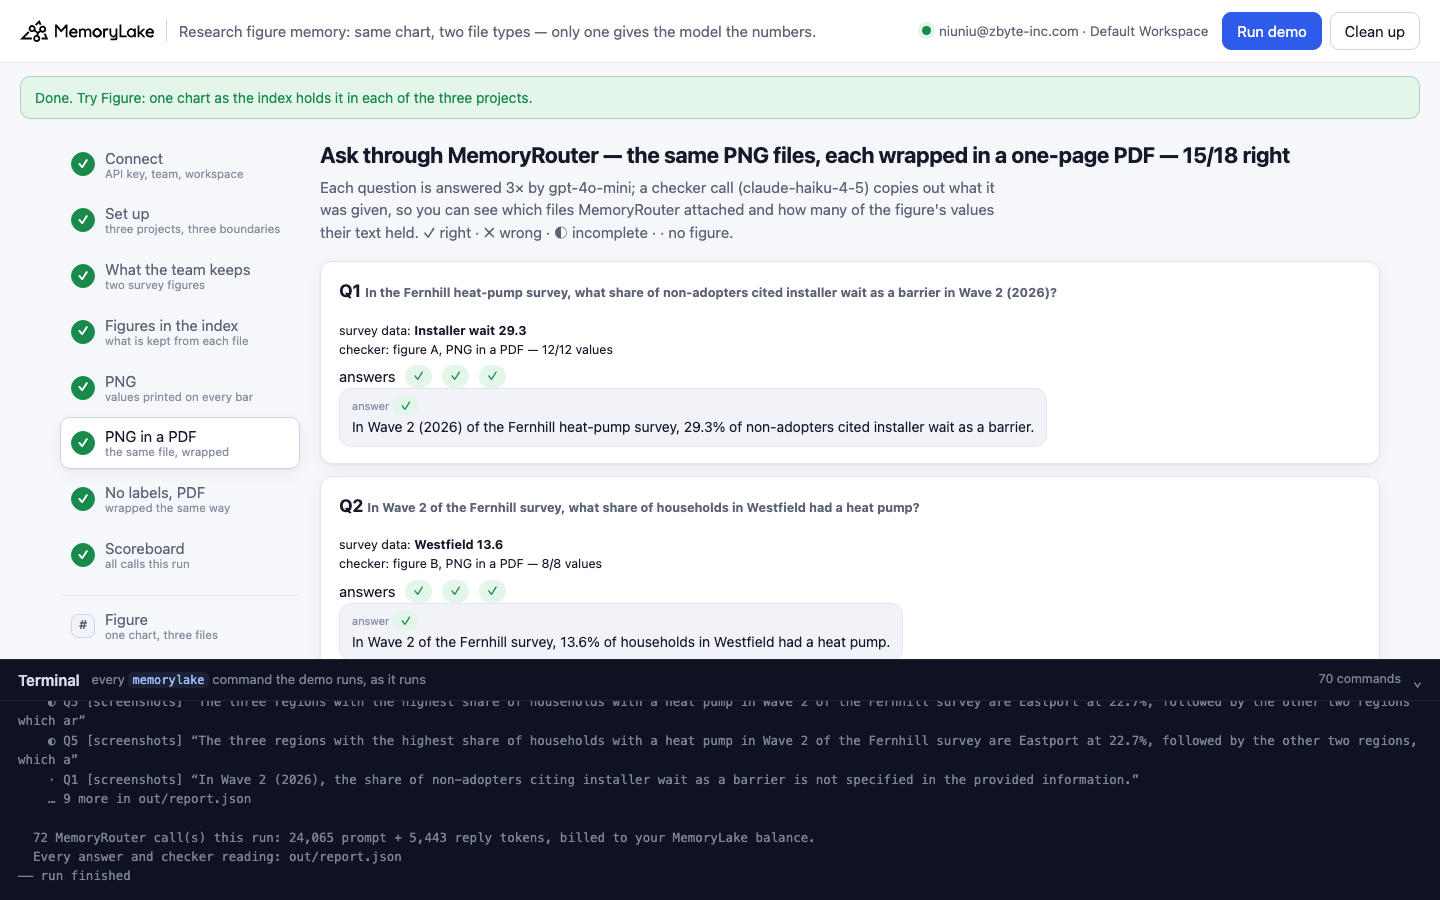
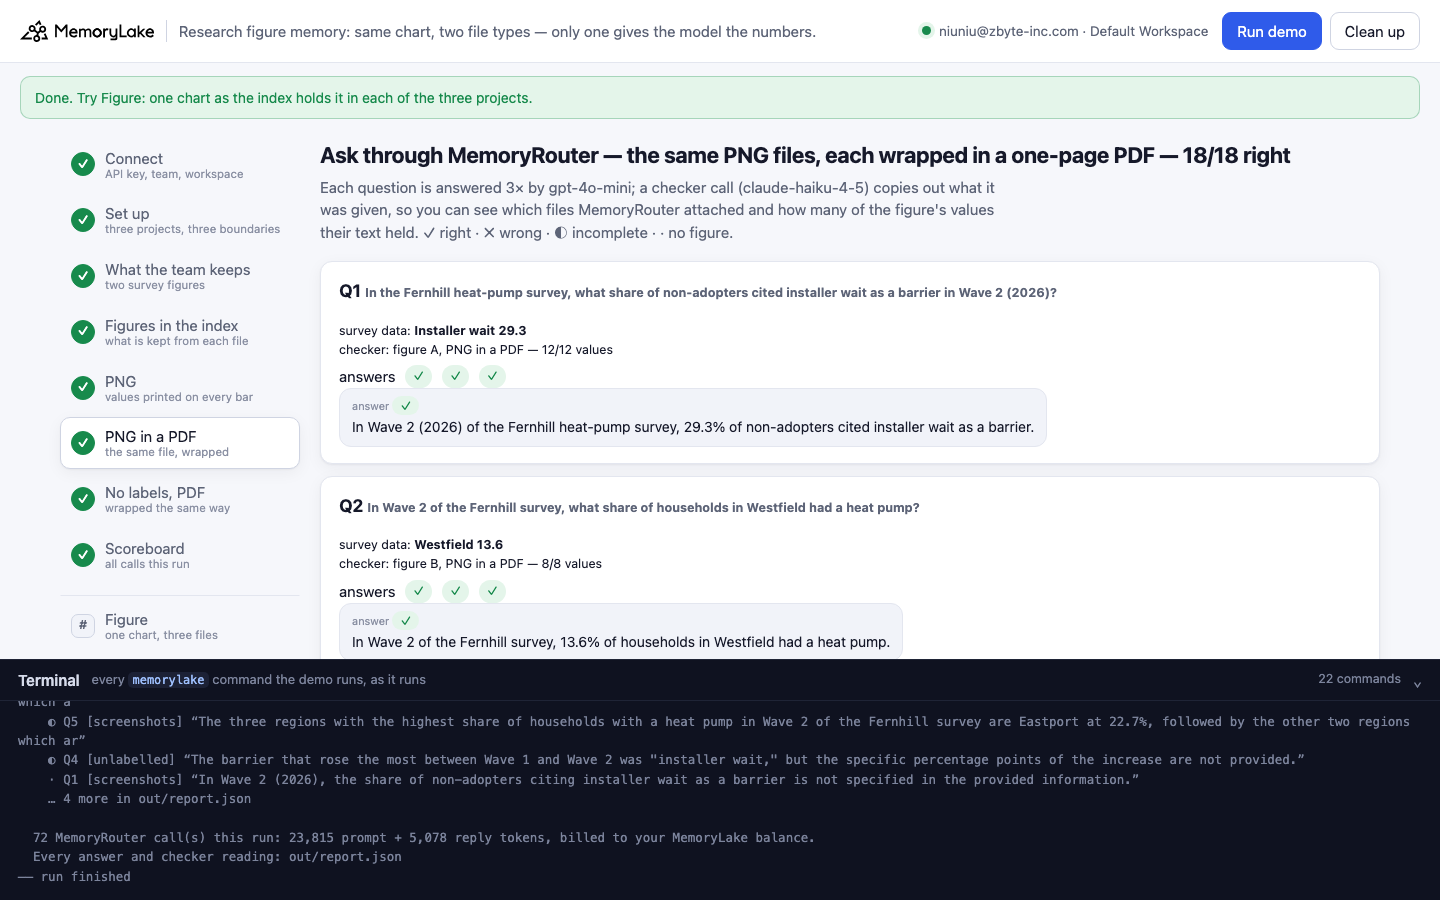
research-figure-memory: video links (CLI 6:26 · Web 6:35), totals over all 10 runs, bar-height estimates in the unlabelled control, screenshots from the recording run

Changed region(s): [[0.0, 0.7778, 0.9688, 0.8711], [0.8125, 0.1556, 0.9062, 0.1867], [0.0625, 0.9644, 0.0938, 0.9956]]

diff --git a/research-figure-memory/README.md b/research-figure-memory/README.md
@@ -4,7 +4,8 @@ A runnable version of the MemoryLake use case
 [*Research Teams Need Shared Memory, Not Just Shared Documents*](https://www.memorylake.ai/en/usecase/ai-memory-for-research-teams),
 built entirely on the [`memorylake` CLI](https://github.com/memorylake-ai/memorylake-cli) (v20261015 or later).
 
-**Watch it run:** recording in progress.
+**Watch it run:** [CLI, 6:26](https://github.com/memorylake-ai/memorylake-usecases/releases/download/research-figure-memory-v1/research-figure-memory-cli-demo.mp4) · [Web, 6:35](https://github.com/memorylake-ai/memorylake-usecases/releases/download/research-figure-memory-v1/research-figure-memory-web-demo.mp4)
+([release](https://github.com/memorylake-ai/memorylake-usecases/releases/tag/research-figure-memory-v1); GitHub serves them as downloads).
 
 **The problem.** A research team keeps its results as bar charts with the value printed on every bar, and saves
 them into shared memory so that everyone's assistant can answer from them. MemoryLake indexes a picture by looking
@@ -51,25 +52,30 @@ top three, a gap between two regions — go through MemoryRouter (`router chat -
 temperature 0), each asked 3 times per boundary, and every answer is graded against the survey data. Every value
 in the data is different, so a number in an answer names exactly one bar.
 
-Totals over **6 runs** (18 answers per boundary per run):
+Totals over **10 runs** (18 answers per boundary per run):
 
 | Boundary | Printed values in the index text | Right | Wrong | Incomplete | No figure | The asked figures were in what MemoryRouter attached |
 |---|---|---|---|---|---|---|
-| **PNG screenshots** | 4–6 of 20 (summary only) | **18 / 108** | 0 | 36 | 54 | 0 of 36 checker calls |
-| **The same PNGs, wrapped in a PDF** | **20 of 20** | **104 / 108** | 4 | 0 | 0 | 36 of 36 |
-| **No printed values, wrapped in a PDF** | 0 of 20 | **0 / 108** | **38** | 12 | 58 | 0 of 36 |
+| **PNG screenshots** | 4–6 of 20 (summary only) | **27 / 180** | 3 | 60 | 90 | 0 of 60 checker calls |
+| **The same PNGs, wrapped in a PDF** | **20 of 20** | **175 / 180** | 4 | 1 | 0 | 60 of 60 |
+| **No printed values, wrapped in a PDF** | 0 of 20 | **0 / 180** | **68** | 15 | 97 | 0 of 60 |
 
-The figure item's own text — what the index reads off the chart — was **empty for every PNG** (12 of 12 imports)
-and held **every printed value for every wrapped PDF** (12 of 12). The PNG's few values come from the summary: its
+The figure item's own text — what the index reads off the chart — was **empty for every PNG** (20 of 20 imports)
+and held **every printed value for every wrapped PDF** (20 of 20). The PNG's few values come from the summary: its
 writer mentions the extremes (Eastport highest, Highmoor lowest; upfront cost 62.4 → 55.1). That is why the PNG
 boundary answers the top-three question with *"Eastport at 22.7%, followed by the other two regions, which are not
-specified"*, and why its 18 right answers are all one question (which barriers were above 20% — the summary
-happened to name the three that rose or led; none of their Wave 2 values except upfront cost reached the model).
+specified"*. Its 27 right answers are all one question — which barriers were above 20% — and they are luck: the
+model lists the barriers the summary says *increased*. When a summary named grid upgrade (14.7%) instead of
+landlord consent, the same question went wrong three times out of three.
 
-The unlabelled control shows what the PDF reads: the printed labels, not the bars. Its figure text is the category
+The unlabelled control shows what the PDF reads: the printed labels. Its figure text is usually the category
 names and the legend, and the assistant fills the gap — *"the three regions with the highest share are Eastport,
-Highmoor, and Southdown"* (Highmoor is the lowest of eight) 17 times of 18, *"upfront cost and uncertainty about
-functionality"* for the barriers above 20% (uncertainty is 15.8).
+Highmoor, and Southdown"* (Highmoor is the lowest of eight) 29 times of 30, *"upfront cost and uncertainty about
+functionality"* for the barriers above 20% (uncertainty is 15.8). In 2 of the 10 imports of the grouped chart the
+index went further and **estimated** the values from the bar heights, marked only by a tilde — `Unsure it works:
+Wave 1 (2025) - ~60` (the survey says 31.6), `Landlord consent … ~35` (26.5). Those estimates reached the model:
+*"approximately 30% of non-adopters cited installer wait"*. Step 4 counts them separately; none is a value printed
+on the chart.
 
 The four wrong answers with the PDF are worth seeing too: all 12 values were attached each time (the checker shows
 it), and gpt-4o-mini still named grid upgrade (+6.3) as the biggest rise instead of installer wait (+10.6) three
@@ -194,7 +200,11 @@ its `text`.
 ```
 
 The layout of the figure text varies between imports (`North Coast 18.4`, `North Coast: 18.4`, `Upfront cost (62.4,
-55.1)`), the values in it did not.
+55.1)`), the values in it did not. When the index estimates values for an unlabelled chart, step 4 adds a line:
+
+```
+    values estimated from the bar heights (written ~): 12, none of them printed on the chart; the furthest off: Unsure it works, Wave 1 (2025) ~60 (survey: 31.6)
+```
 
 ### Step 5: ask through MemoryRouter — the PNG screenshots
 
@@ -272,18 +282,22 @@ of the three projects (the step 4 view, for one figure). It makes searches only,
 
 ## Measured
 
-6 runs: 1 in this directory, 2 parallel copies with their own prefix, and 3 through the browser companion. 18
-answers per boundary per run; 36 checker calls per boundary, all readable.
+10 runs: 2 in this directory, 2 parallel copies with their own prefix, 4 through the browser companion, and the
+two recording runs (CLI and web; the CLI video was recorded twice — the first take was fine, but the step 4 view
+then gained the "estimated from the bar heights" line, and the video should match the code). 18 answers per
+boundary per run; 60 checker calls per boundary, all readable.
 
-- **Per question** (108 answers per boundary, 18 per question): **PNG** — Q3 18 ✓; Q4 18 ◐ (installer wait named,
-  no points); Q5 18 ◐ (Eastport only); Q1, Q2, Q6 18 · each. **PNG in a PDF** — Q1, Q2, Q5, Q6 18 ✓ each; Q3 17 ✓
-  1 ✗ (a 15.8% barrier listed above 20%); Q4 15 ✓ 3 ✗ (grid upgrade +6.3, all in one run). **No printed values,
-  PDF** — Q5 17 ✗ (Eastport, Highmoor, Southdown) 1 ·; Q3 15 ✗ 3 ·; Q4 12 ◐ 3 ✗ (*"10 percentage points (from ~20%
-  to ~30%)"* — read off nothing) 3 ·; Q1 15 · 3 ✗ (*"approximately 30%"*); Q2, Q6 18 · each.
-- **The index text** (step 4, 6 imports of every file): figure item `text` empty for all 12 PNG imports, every
-  printed value for all 12 wrapped-PDF imports, category names and legend only for the unlabelled PDFs. The PNG
+- **Per question** (180 answers per boundary, 30 per question): **PNG** — Q3 27 ✓ 3 ✗; Q4 30 ◐ (installer wait
+  named, no points); Q5 30 ◐ (Eastport only); Q1, Q2, Q6 30 · each. **PNG in a PDF** — Q1, Q2, Q5, Q6 30 ✓ each;
+  Q3 28 ✓ 1 ✗ (a 15.8% barrier listed above 20%) 1 ◐ (upfront cost left out); Q4 27 ✓ 3 ✗ (grid upgrade +6.3, all
+  in one run). **No printed values, PDF** — Q5 29 ✗ (Eastport, Highmoor, Southdown) 1 ·; Q3 27 ✗ 3 ·; Q4 15 ◐
+  6 ✗ (*"10 percentage points (from ~20% to ~30%)"*, from the estimated figure text) 9 ·; Q1 24 · 6 ✗
+  (*"approximately 30%"*, same two runs); Q2, Q6 30 · each.
+- **The index text** (step 4, 10 imports of every file): figure item `text` empty for all 20 PNG imports, every
+  printed value for all 20 wrapped-PDF imports; for the unlabelled PDFs, category names and legend only in 18 of
+  20, and bar-height estimates (`~60`, `~35`) in 2 — both times the grouped chart, never the region chart. The PNG
   summaries held 4 or 6 of the 20 values (the extremes).
-- **The checker** (`claude-haiku-4-5`, 108 calls, all readable): MemoryRouter attached the asked figure for every
+- **The checker** (`claude-haiku-4-5`, 180 calls, all readable): MemoryRouter attached the asked figure for every
   question in every boundary.
 - Each run: 72 MemoryRouter calls, 23,000–25,000 prompt + 5,000–5,900 reply tokens, 5–6 minutes (the six
   documents indexed in 68–102 s; three copies importing at once were the slow ones).
@@ -294,9 +308,10 @@ answers per boundary per run; 36 checker calls per boundary, all readable.
   are read into text, value by value; the same picture as a PNG is described, not read. Before you rely on a chart
   being "in memory", look at what `search --types document` holds for it.
 - **Wrapping is enough.** No redraw and no export of the data: `wrap_png_as_pdf()` puts the PNG's own bytes in a
-  one-page PDF. For screenshots you already have, that took this team from 18 to 104 of 108.
-- **Print the values on the chart.** The PDF reads the labels, not the bar heights; an unlabelled chart in a PDF
-  gives the category names and nothing else, and the assistant then makes up rankings.
+  one-page PDF. For screenshots you already have, that took this team from 27 to 175 of 180.
+- **Print the values on the chart.** The PDF reads the labels. An unlabelled chart in a PDF usually gives the
+  category names and nothing else (and the assistant then makes up rankings); sometimes it gives estimates off the
+  bar heights, written `~60`, that can be off by half. Treat a `~` in figure text as a guess, not a value.
 - **Grade list answers for what is missing and what is extra**, and tell "not attached" from "attached and still
   wrong": the checker shows every value was attached when the model still picked the wrong biggest rise.
 

diff --git a/README.md b/README.md
@@ -87,7 +87,7 @@ that memory can hold once it is more than coding sessions.
 | [report-table-memory](report-table-memory/) | Finance (hedge-fund research) | 4,5 is a decimal — in the text MemoryRouter attaches, the comma is also a column. Six IR reports (PDF, four in European number format) and the same tables as .xlsx: MemoryRouter attaches a PDF table as unquoted comma-separated values, so `Lieferzeit (Tage),12,4,5` reads as 12 \| 4.5 or 12.4 \| 5. Over 7 runs, answers on rows that split two ways were wrong 84/140 (one-way rows 0/84); the .xlsx boundary 0/224; handing the same table over with the cell boundaries kept 0/70. A deterministic reading counter flags the risky rows before anything is asked. | ~8 min | [CLI 7:20](https://github.com/memorylake-ai/memorylake-usecases/releases/download/report-table-memory-v1/report-table-memory-cli-demo.mp4) · [Web 7:40](https://github.com/memorylake-ai/memorylake-usecases/releases/download/report-table-memory-v1/report-table-memory-web-demo.mp4) |
 | [stock-sheet-memory](stock-sheet-memory/) | Operations (weekly stock count) | The warehouse is the sheet name — and the attached rows never say which one. One workbook, a sheet per warehouse, same columns: MemoryRouter attaches each sheet's table labelled `(file / sheet)` with one sheet name per file, so Bristol's rows arrive labelled *Glasgow*. Over 10 runs, the workbook as kept got 120/320 right (92 answers gave another warehouse's count, 108 no figure; 45 of 76 attached tables carried another warehouse's label); the same numbers with a `Site` column on every row 320/320. | ~5 min | [CLI 5:33](https://github.com/memorylake-ai/memorylake-usecases/releases/download/stock-sheet-memory-v1/stock-sheet-memory-cli-demo.mp4) · [Web 5:40](https://github.com/memorylake-ai/memorylake-usecases/releases/download/stock-sheet-memory-v1/stock-sheet-memory-web-demo.mp4) |
 | [assay-chart-memory](assay-chart-memory/) | Healthcare & life sciences (biotech assay team) | The chart is in memory — its numbers are not. An image is indexed as a vision summary plus the text read off it, and that text is what MemoryRouter attaches for it: a plate run's IC50 bar chart kept 0 of 8 values, and with the value printed on every bar, 2 of 8 (the lowest and the highest — the ones the summary chose). Over 8 runs, the charts got 0/144 right (132 "not given", plus lists built from the summary's prose), the labelled charts 0/144 (47 wrong — e.g. seven compounds "below 40 nM" where four are, or invented IC50s), and the charts plus the plate reader's CSV 121/144 — the misses a top three the model mis-sorted with all eight values attached. | ~7 min | [CLI 7:07](https://github.com/memorylake-ai/memorylake-usecases/releases/download/assay-chart-memory-v1/assay-chart-memory-cli-demo.mp4) · [Web 7:42](https://github.com/memorylake-ai/memorylake-usecases/releases/download/assay-chart-memory-v1/assay-chart-memory-web-demo.mp4) |
-| [research-figure-memory](research-figure-memory/) | Research & analytics | The same labelled bar chart stored two ways behind MemoryRouter: as a PNG the index keeps a vision summary and none of the printed values (figure text empty); wrapped unchanged in a one-page PDF (standard-library wrapper, no redraw) the chart becomes a figure whose printed labels are read value by value, and MemoryRouter attaches them. Six questions × 3 boundaries graded against the survey data (6 runs: PNG 18/108, PNG in a PDF 104/108, unlabelled PDF 0/108 with invented rankings); a checker shows what was attached. CLI runner plus a local web UI | ~5 min | recording |
+| [research-figure-memory](research-figure-memory/) | Research & analytics | The same labelled bar chart stored two ways behind MemoryRouter: as a PNG the index keeps a vision summary and none of the printed values (figure text empty); wrapped unchanged in a one-page PDF (standard-library wrapper, no redraw) the chart becomes a figure whose printed labels are read value by value, and MemoryRouter attaches them. Six questions × 3 boundaries graded against the survey data (10 runs: PNG 27/180, PNG in a PDF 175/180, unlabelled PDF 0/180 with invented rankings); a checker shows what was attached. CLI runner plus a local web UI | ~5 min | [CLI 6:26](https://github.com/memorylake-ai/memorylake-usecases/releases/download/research-figure-memory-v1/research-figure-memory-cli-demo.mp4) · [Web 6:35](https://github.com/memorylake-ai/memorylake-usecases/releases/download/research-figure-memory-v1/research-figure-memory-web-demo.mp4) |
 
 The videos are real, unedited recordings; every asset lives on the [releases page](https://github.com/memorylake-ai/memorylake-usecases/releases).
 
